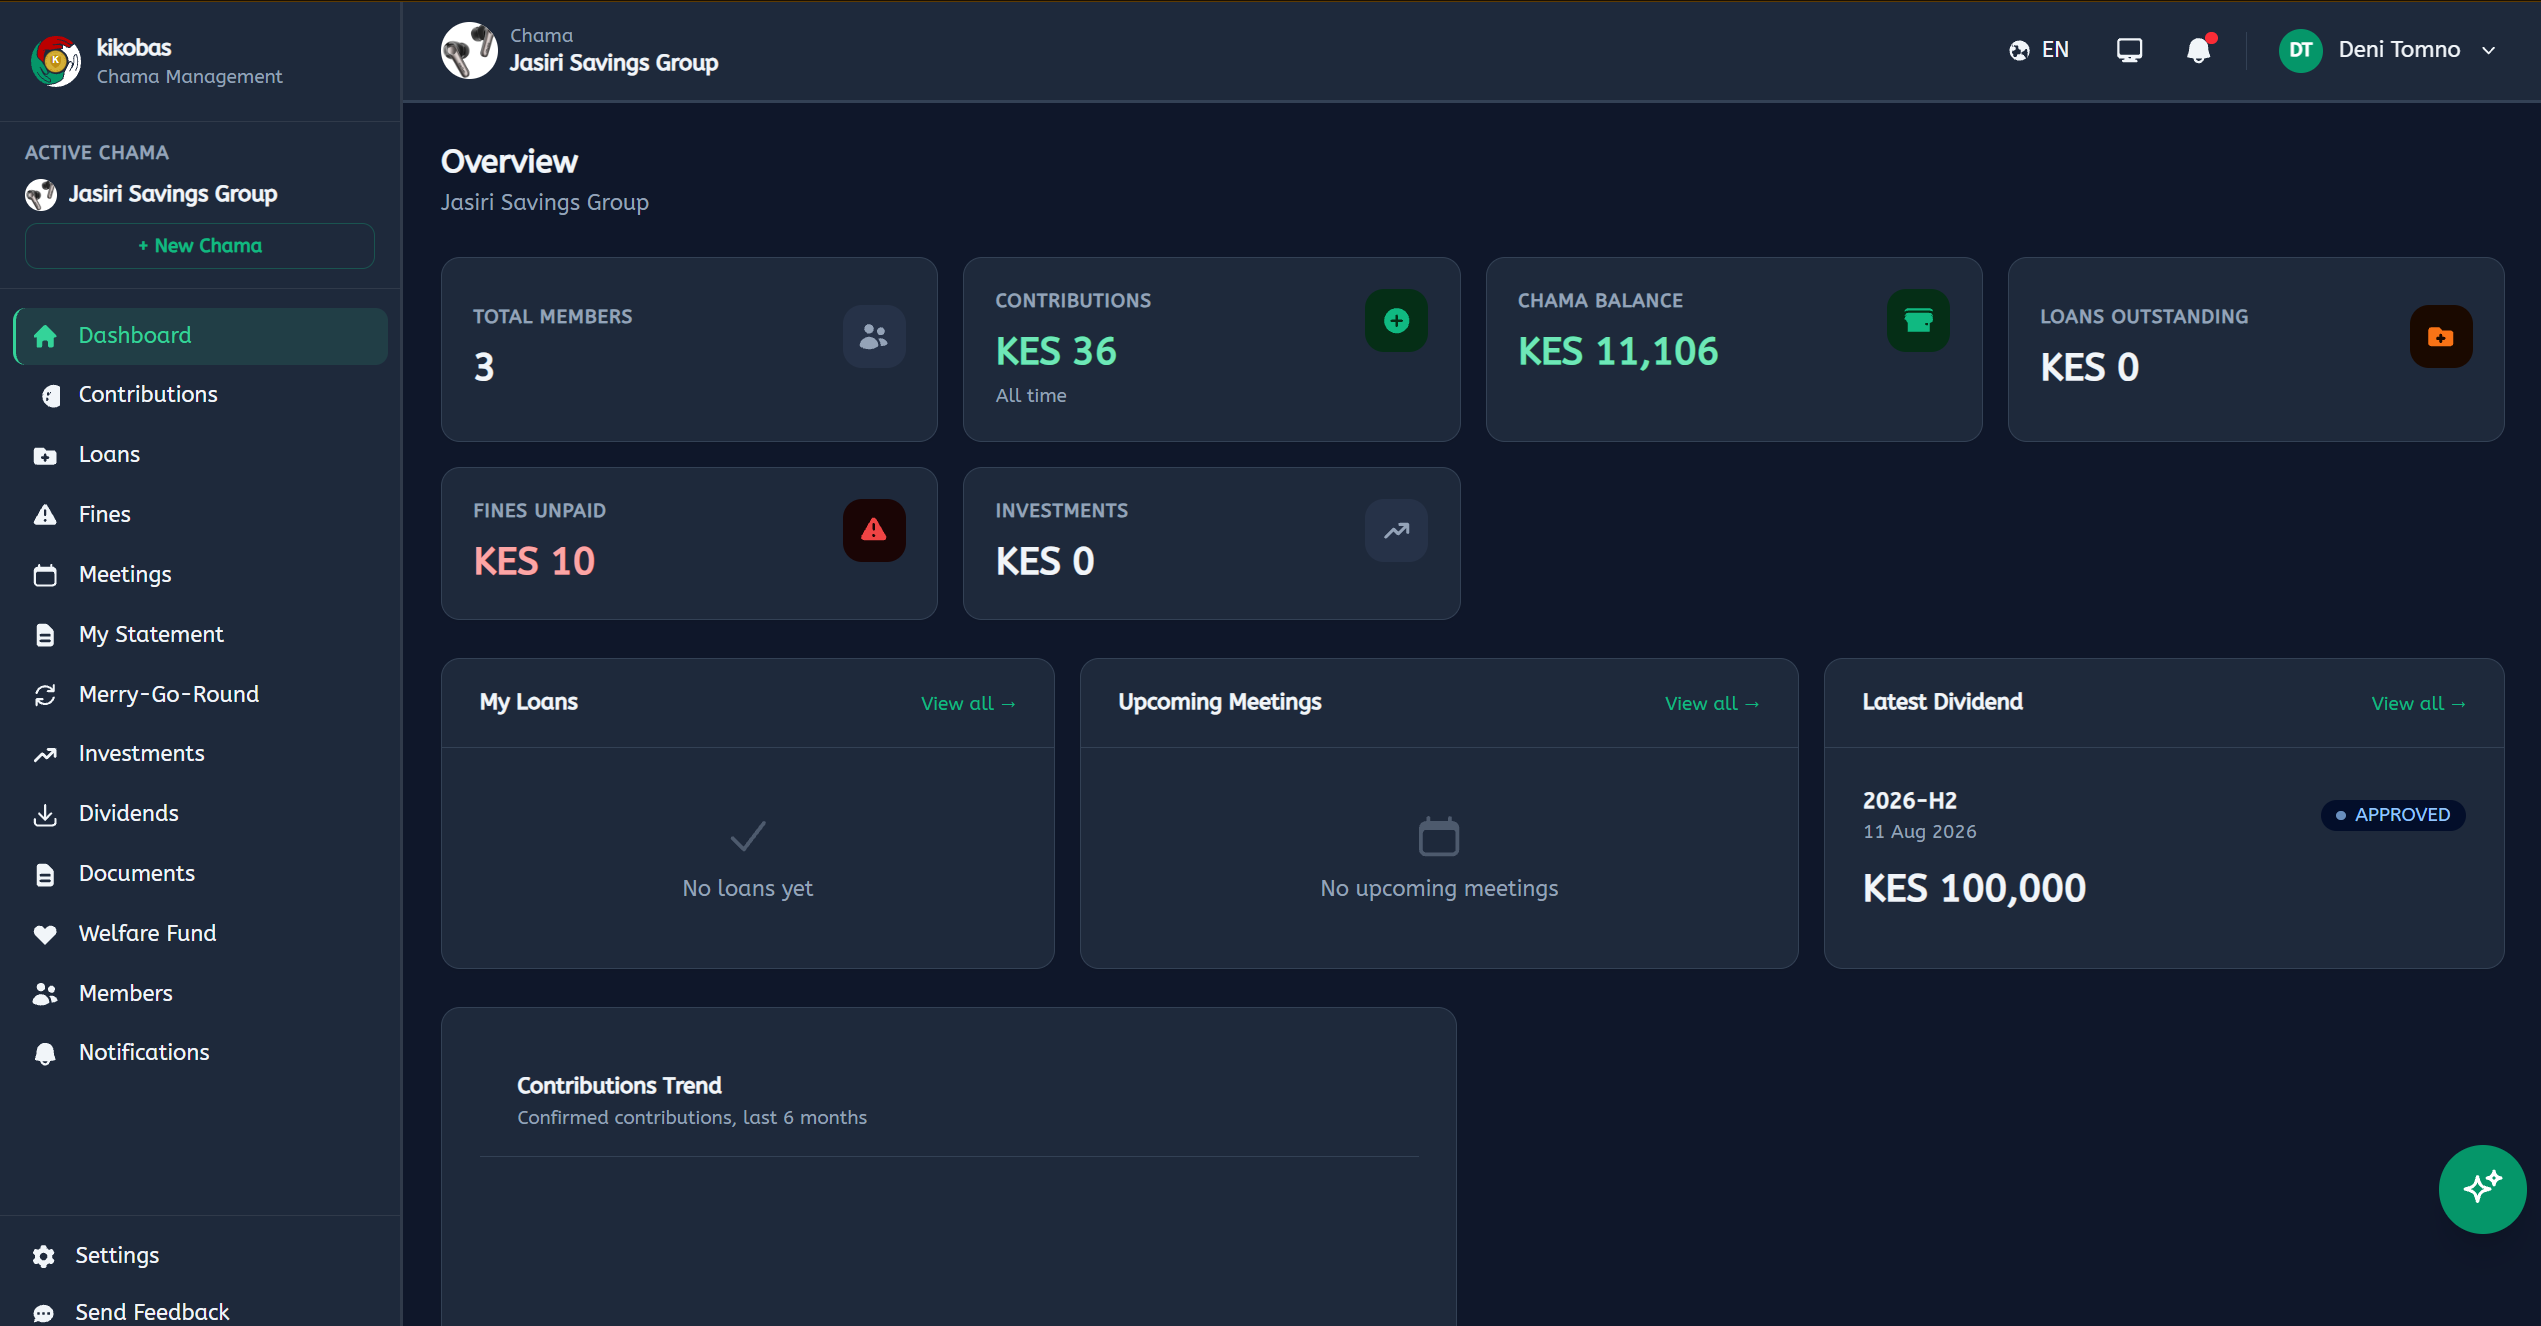
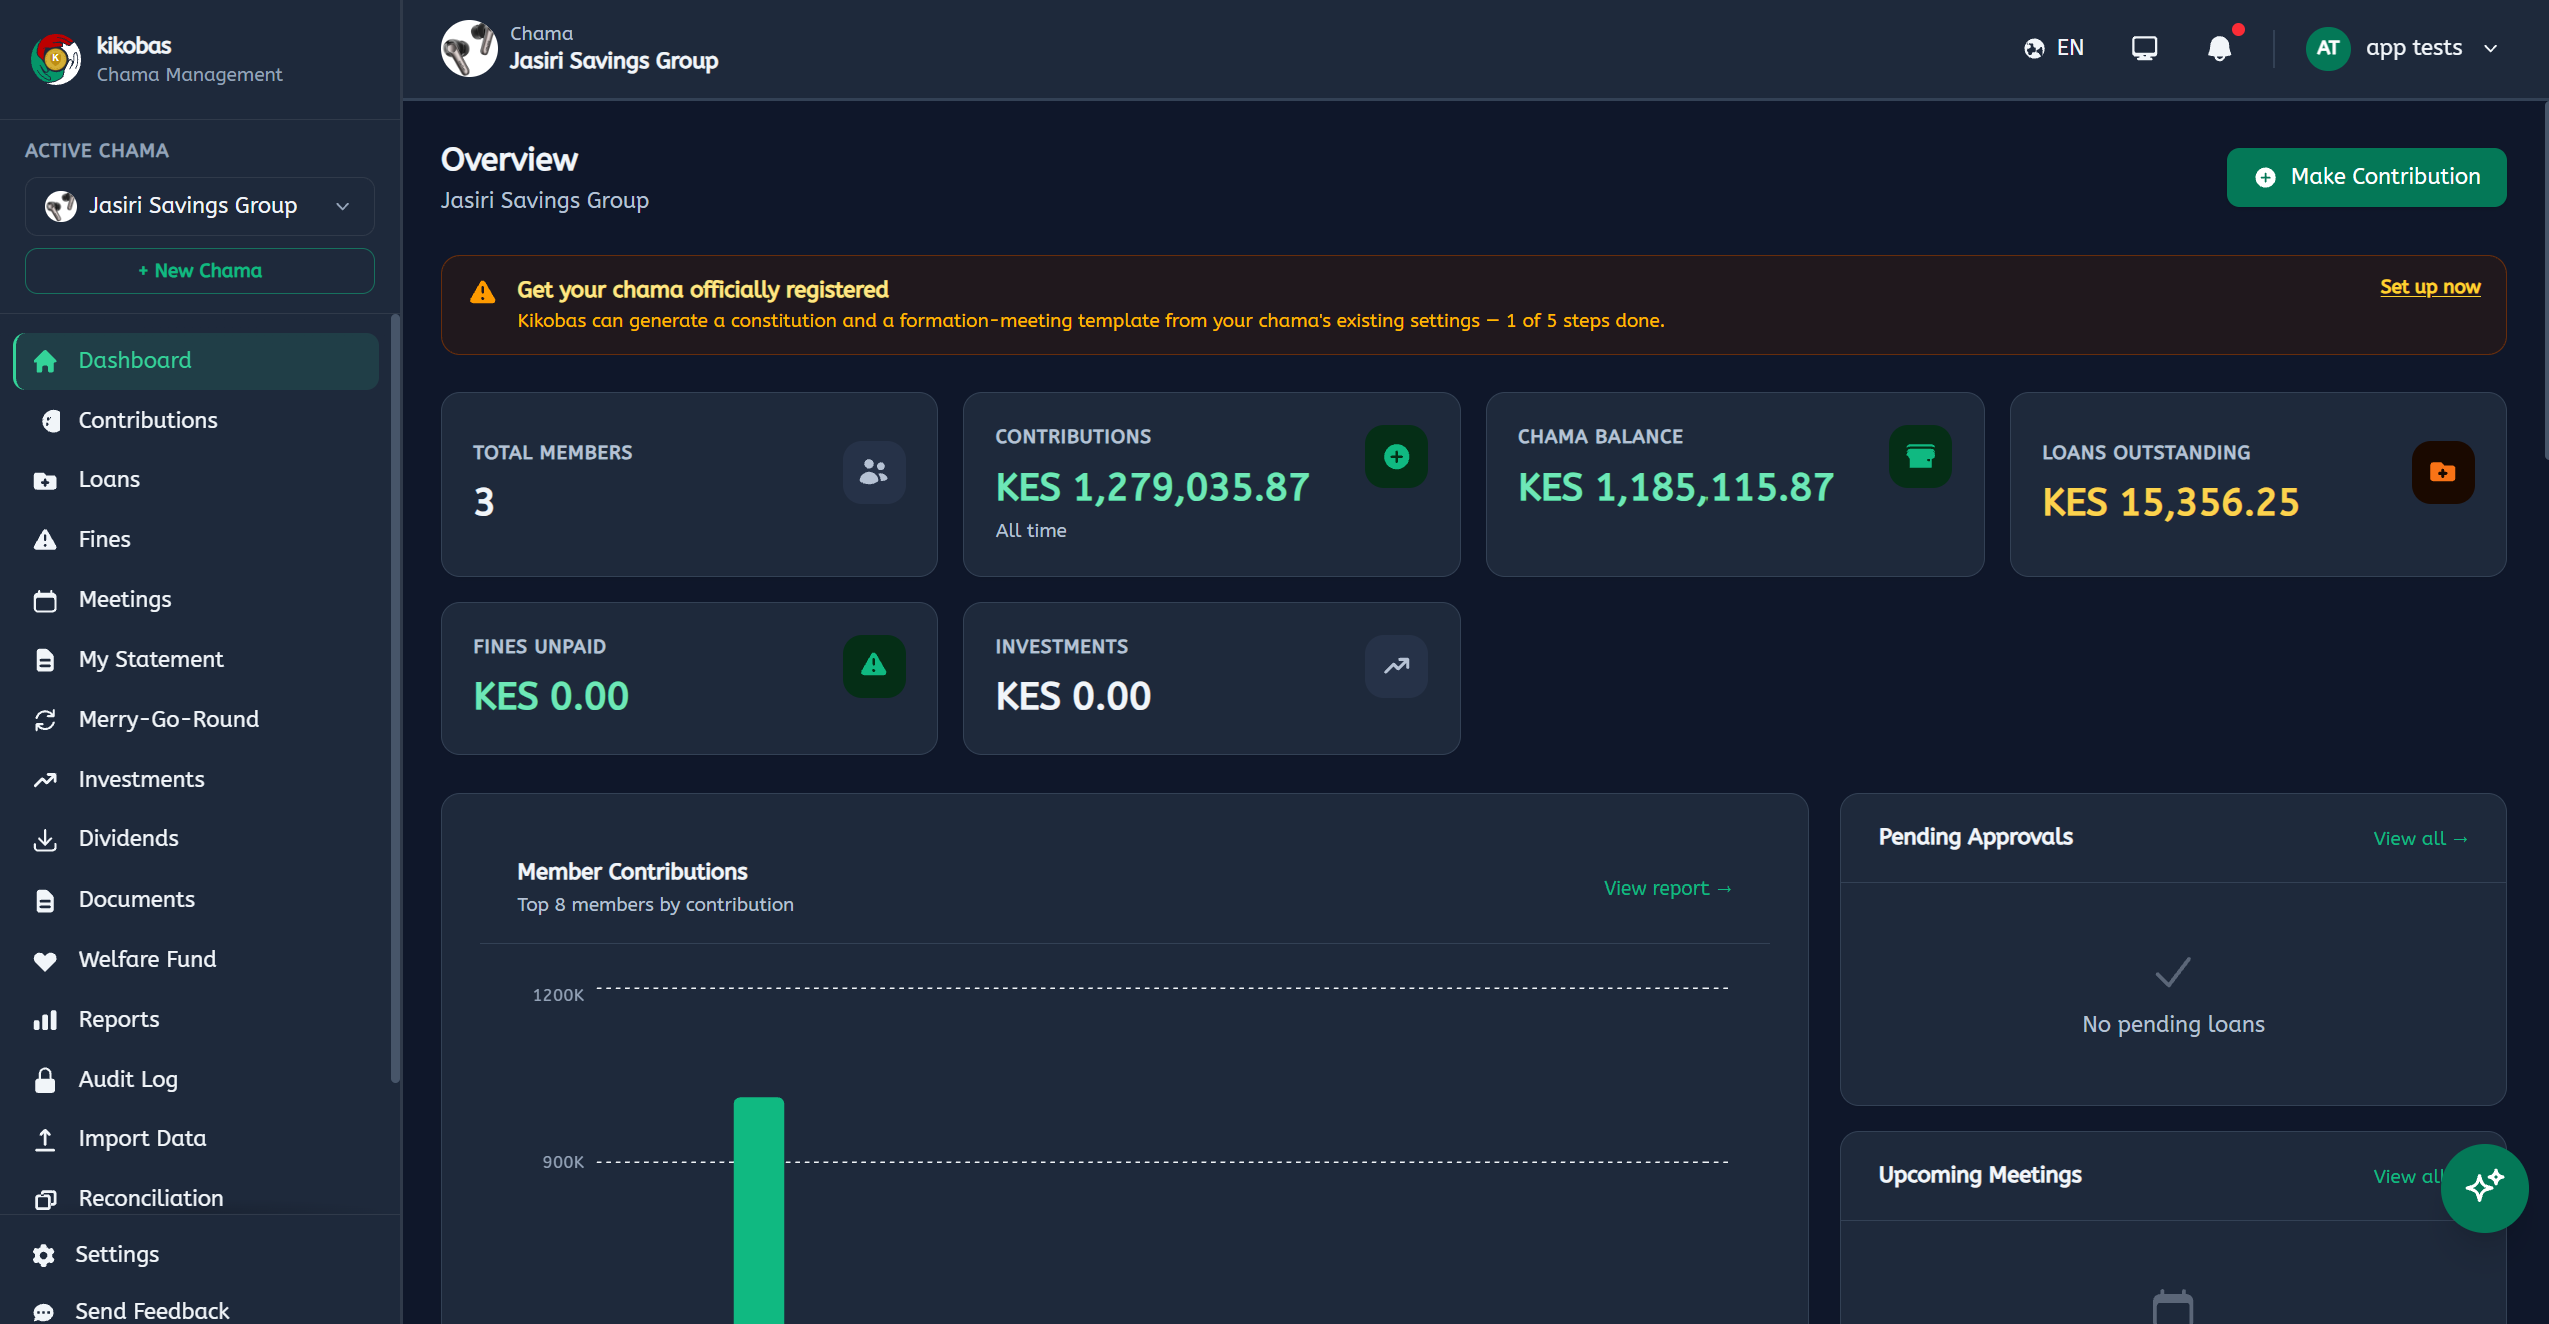
chore: update project details

diff --git a/src/data/content.ts b/src/data/content.ts
@@ -28,12 +28,14 @@ import lec1 from '../assets/lec-1.jpg'
 import lec2 from '../assets/lec-2.jpg'
 import lec3 from '../assets/lec-3.jpg'
 import lec4 from '../assets/lec-4.jpg'
-import lendstream1 from '../assets/lendstream1.png'
-import lendstream2 from '../assets/lendstream2.png'
 import kikobas1 from '../assets/kikobas1.png'
 import kikobas2 from '../assets/kikobas2.png'
 import kikobas3 from '../assets/kikobas3.png'
 import kikobas4 from '../assets/kikobas4.png'
+import kikobas5 from '../assets/kikobas5.png'
+import kikobas6 from '../assets/kikobas6.png'
+import kikobas7 from '../assets/kikobas7.png'
+import kikobas8 from '../assets/kikobas8.png'
 
 export const PROFILE = {
   name: 'Dennis Tomno',
@@ -94,7 +96,7 @@ export const TICKER = [
   'Spring Boot',
   'Flutter',
   'Dart',
-  'Angular',
+  // 'Angular',
   'Kafka',
   'Docker',
   // 'Offline-First',
@@ -127,11 +129,12 @@ export const PROJECTS: Project[] = [
     description:
       "A full-featured digital platform for Kenyan savings groups (chamas). Replaces WhatsApp threads and Excel sheets with transparent, auditable tools for contributions, loans, fines, merry-go-round, investments, dividends, meetings, a welfare fund, documents, bank/mobile-money statement reconciliation, and an AI-powered Chama Advisor.",
     tags: ['Next.js', 'TypeScript', 'React Native', 'Docker'],
-    images: [kikobas1, kikobas2, kikobas3, kikobas4],
+    images: [kikobas1, kikobas2, kikobas3, kikobas4, kikobas5, kikobas6, kikobas7, kikobas8],
     status: 'In Testing',      
     links: [
       // { label: 'GitHub', href: 'https://github.com/dtomno/kikobas' },
-      { label: 'Live demo', href: 'https://staging.kikobas.com' },
+      { label: 'Live Web demo', href: 'https://staging.kikobas.com' },
+      { label: 'Live Mobile demo', href: 'https://play.google.com/apps/internaltest/4701665182068619191' }
     ],
   },  
   {
@@ -170,24 +173,24 @@ export const PROJECTS: Project[] = [
     images: [edm],
     links: [],
   },
-  {
-    id: 'lendstream',
-    index: '05',
-    title: 'LendStream',
-    year: '2024',
-    summary: 'An event-driven loan-processing prototype that automates the entire application workflow.',
-    description:
-      "Built interconnected modules that evaluate loan requests, manage approvals, and process payments while communicating over an event bus. Designed for reliability and transparency, with real-time monitoring that tracks each loan from submission to funding, handling concurrent requests without sacrificing data integrity.",
-    tags: ['Node.js', 'React', 'Docker', 'Apache Kafka'],
-    images: [lendstream1, lendstream2],
-    links: [
-      { label: 'GitHub', href: 'https://github.com/dtomno/lendstream' },
-      { label: 'Live demo', href: 'https://lendstream.vercel.app' },
-    ],
-  },  
+  // {
+  //   id: 'lendstream',
+  //   index: '05',
+  //   title: 'LendStream',
+  //   year: '2024',
+  //   summary: 'An event-driven loan-processing prototype that automates the entire application workflow.',
+  //   description:
+  //     "Built interconnected modules that evaluate loan requests, manage approvals, and process payments while communicating over an event bus. Designed for reliability and transparency, with real-time monitoring that tracks each loan from submission to funding, handling concurrent requests without sacrificing data integrity.",
+  //   tags: ['Node.js', 'React', 'Docker', 'Apache Kafka'],
+  //   images: [lendstream1, lendstream2],
+  //   links: [
+  //     { label: 'GitHub', href: 'https://github.com/dtomno/lendstream' },
+  //     { label: 'Live demo', href: 'https://lendstream.vercel.app' },
+  //   ],
+  // },  
   {
     id: 'intune',
-    index: '06',
+    index: '05',
     title: 'Intune — Guitar Utility App',
     year: '2025 - Present',
     summary: 'A cross-platform tuner, chord library, and metronome for musicians, built with Flutter.',
@@ -203,7 +206,7 @@ export const PROJECTS: Project[] = [
   },
   {
     id: 'lec-portal',
-    index: '07',
+    index: '06',
     title: 'LEC Customer Portal Integrations',
     year: '2023 - Present',
     summary: 'Key feature work for Liberia Electricity Corporation’s customer portal.',
